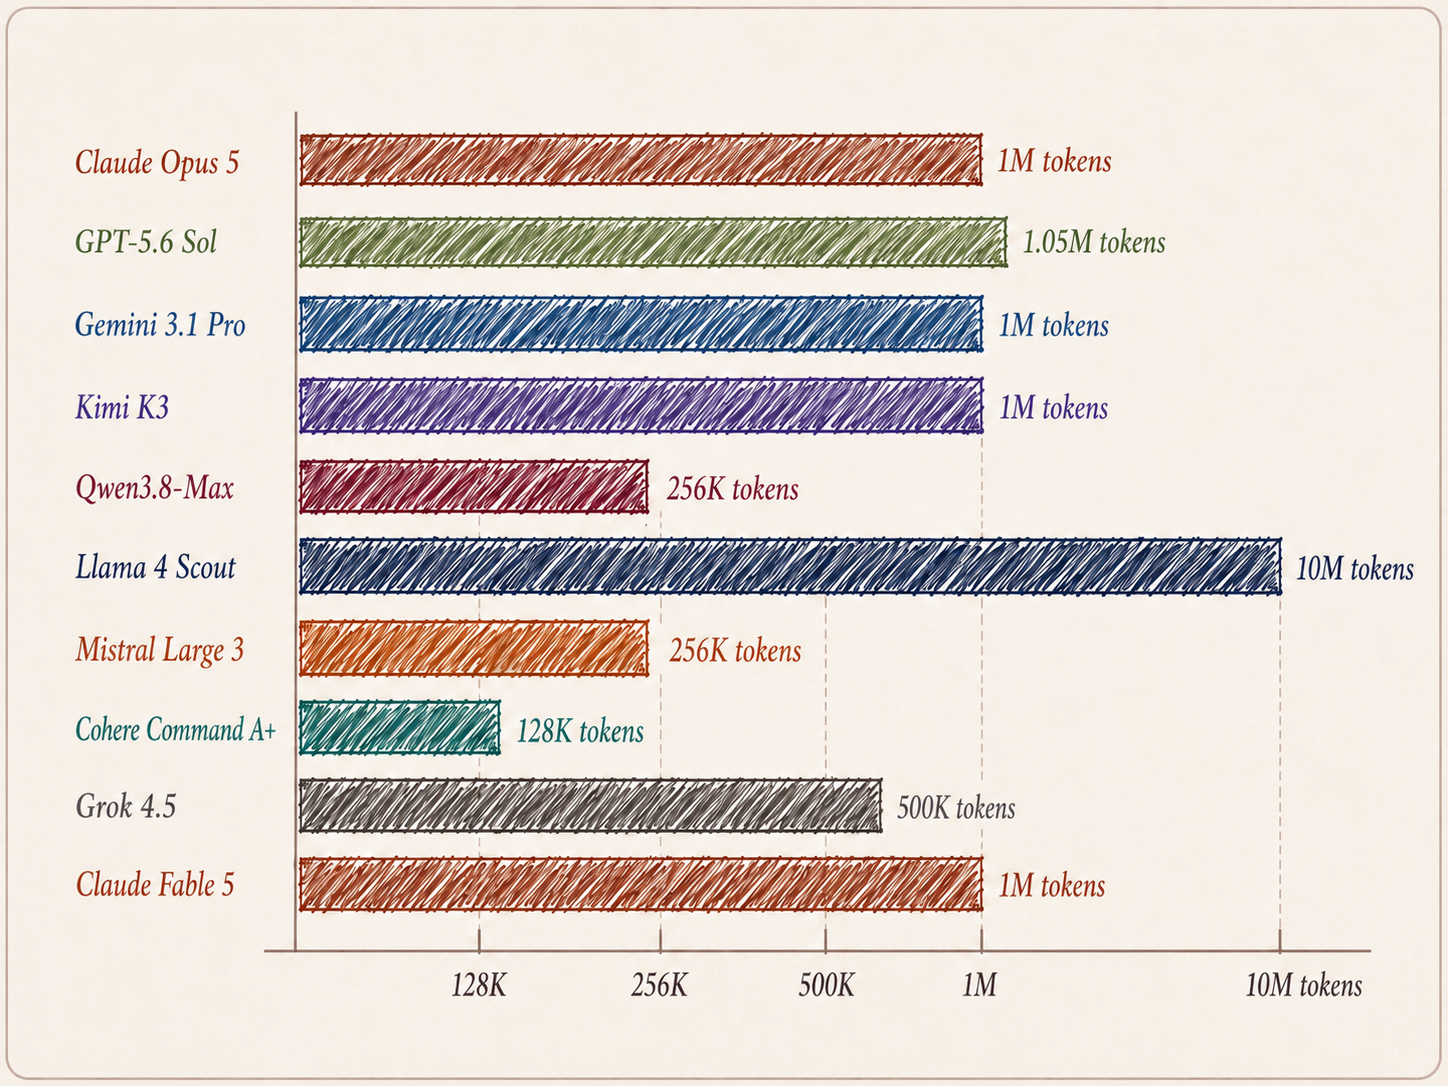
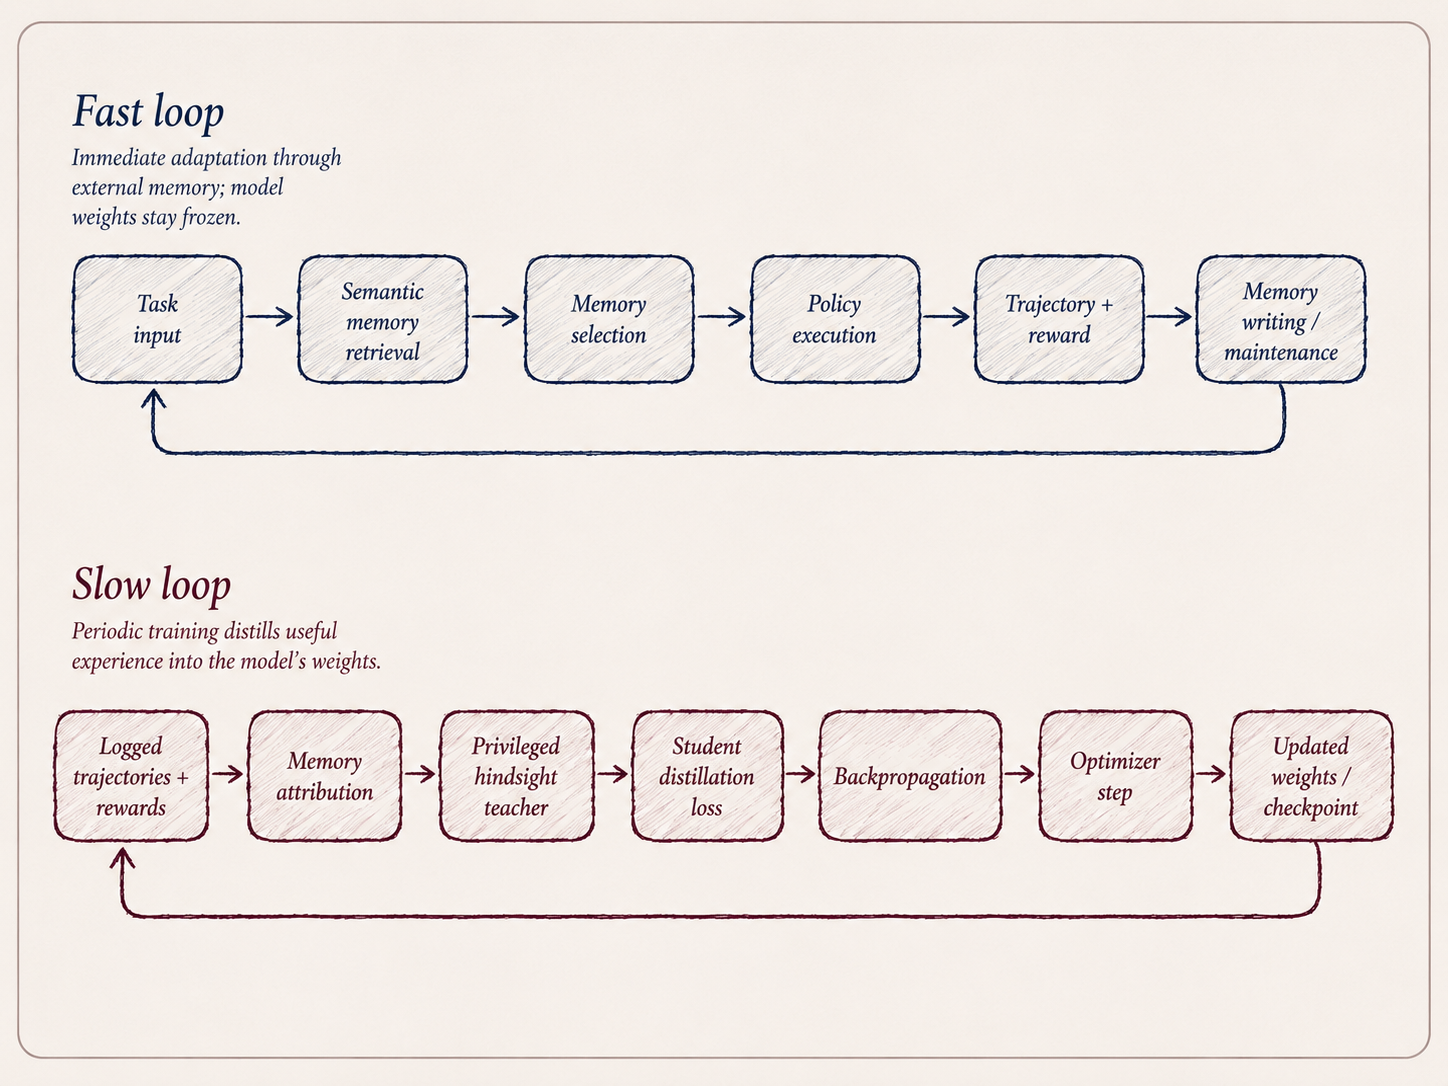
Bold/italicize why-it-matters callout; use post3img1 as thumbnail

Changed region(s): [[0.0, 0.0, 1.0, 1.0]]

diff --git a/content/signals/continual-learning.md b/content/signals/continual-learning.md
@@ -12,7 +12,7 @@ Closer to the end user, memory has a completely different form, giving agents th
 There's a limit to how far memory can go without continually improving the model on past instances. Markdown files and vector dbs are useful for retrieval, and you can get creative on the types of retrieval algorithms to reduce latency; however, they are still fundamentally static representations of past experiences.
 
 <div class="article-image-wrap">
-  <img src="continual-learning-1.png" alt="Signals and Startups No. 3 image 1" class="article-img-small" />
+  <img src="continual-learning-2.png" alt="Signals and Startups No. 3 image 1" class="article-img-small" />
 </div>
 
 ---
@@ -22,7 +22,7 @@ There's a limit to how far memory can go without continually improving the model
 The authors of OPD recommend a multifaceted approach to self-evolving agents that combines a fast loop for immediate adaptation through memory with a slow loop that periodically distills useful experience into the model's weights.
 
 <div class="article-image-wrap">
-  <img src="continual-learning-2.png" alt="Signals and Startups No. 3 image 2" class="article-img-small" />
+  <img src="continual-learning-1.png" alt="Signals and Startups No. 3 image 2" class="article-img-small" />
 </div>
 
 In practice this would look something like:
@@ -31,7 +31,7 @@ In practice this would look something like:
 
 **Slow loop**: look across those completed tasks → identify which tips/skills/tools actually led to better outcomes → give that hindsight to the teacher (same model with hindsight / extra information) → distill the successful behavior into the student (model before learning) → backpropagate and update the model weights → deploy the improved model.
 
-Why this is important → As agents learn to "avoid ads" in the example above through memory, that recursive learning behavior that gets backfilled in markdown files actually has underutilized benefits. The slow-loop training distills frequently used behaviors into model weights and can reduce retrieval overhead, context-window usage, latency, and inference cost while making agent behavior more consistent at scale.
+***Why this is important → As agents learn to "avoid ads" in the example above through memory, that recursive learning behavior that gets backfilled in markdown files actually has underutilized benefits. The slow-loop training distills frequently used behaviors into model weights and can reduce retrieval overhead, context-window usage, latency, and inference cost while making agent behavior more consistent at scale.***
 
 ---
 
